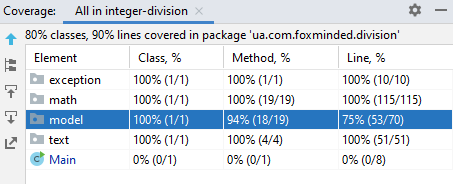
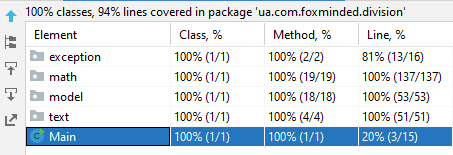
Add test validator. Fix empty filds, new screenshots coverage test.

diff --git a/src/test/java/ua/com/foxminded/division/text/FormatterTest.java b/src/test/java/ua/com/foxminded/division/text/FormatterTest.java
@@ -2,18 +2,14 @@ package ua.com.foxminded.division.text;
 
 import org.junit.jupiter.api.BeforeEach;
 import org.junit.jupiter.api.Test;
-import org.mockito.Mockito;
 import ua.com.foxminded.division.math.Divider;
 import ua.com.foxminded.division.model.Result;
-
-import java.util.ArrayList;
-import java.util.List;
 
 import static org.junit.jupiter.api.Assertions.assertEquals;
 
 class FormatterTest {
+
     private static Divider divider;
-    private static Result resultMock;
     private static Formatter formatter;
 
     @BeforeEach
@@ -24,91 +20,33 @@ class FormatterTest {
 
     @Test
     public void shouldFormatString_WithPositiveNumbersVar1() {
-        resultMock = Mockito.mock(Result.class);
-        final int dividend = 78945;
-        final int divisor = 4;
-        final int quotient = 19736;
-        final int remainder = 1;
-        final int longChar = 5;
-        final List<Integer> subtrahend = new ArrayList<>();
-        final List<Integer> minuend = new ArrayList<>();
-        final List<Integer> numbersTab = new ArrayList<>();
-        final int numbersCycle = 5;
-        final List<Integer> longMinued = new ArrayList<>();
-        final int longLastTab = 5;
-        final List<Integer> numbersTabMinesOne = new ArrayList<>();
-        final int numbersCycleMinesOne = 4;
-        final int tabOneForStringTwo = 4;
-        final int tabTwoForStringTwo = 3;
-        final int tabTwoForStringThree = 4;
-
-        subtrahend.add(4);
-        subtrahend.add(36);
-        subtrahend.add(28);
-        subtrahend.add(12);
-        subtrahend.add(24);
-        minuend.add(7);
-        minuend.add(38);
-        minuend.add(29);
-        minuend.add(14);
-        minuend.add(25);
-        numbersTab.add(1);
-        numbersTab.add(1);
-        numbersTab.add(2);
-        numbersTab.add(3);
-        numbersTab.add(4);
-        longMinued.add(1);
-        longMinued.add(2);
-        longMinued.add(2);
-        longMinued.add(2);
-        longMinued.add(2);
-        numbersTabMinesOne.add(0);
-        numbersTabMinesOne.add(0);
-        numbersTabMinesOne.add(1);
-        numbersTabMinesOne.add(2);
-        numbersTabMinesOne.add(3);
-
-        Mockito.when(resultMock.getDividend()).thenReturn(dividend);
-        Mockito.when(resultMock.getDivisor()).thenReturn(divisor);
-        Mockito.when(resultMock.getQuotient()).thenReturn(quotient);
-        Mockito.when(resultMock.getRemainder()).thenReturn(remainder);
-        Mockito.when(resultMock.getLongChar()).thenReturn(longChar);
-        Mockito.when(resultMock.getSubtrahend()).thenReturn(subtrahend);
-        Mockito.when(resultMock.getMinuend()).thenReturn(minuend);
-        Mockito.when(resultMock.getNumbersTab()).thenReturn(numbersTab);
-        Mockito.when(resultMock.getNumbersCycle()).thenReturn(numbersCycle);
-        Mockito.when(resultMock.getLongMinued()).thenReturn(longMinued);
-        Mockito.when(resultMock.getLongLastTab()).thenReturn(longLastTab);
-        Mockito.when(resultMock.getNumbersTabMinesOne()).thenReturn(numbersTabMinesOne);
-        Mockito.when(resultMock.getTabOneForStringTwo()).thenReturn(tabOneForStringTwo);
-        Mockito.when(resultMock.getTabTwoForStringTwo()).thenReturn(tabTwoForStringTwo);
-        Mockito.when(resultMock.getTabTwoForStringThree()).thenReturn(tabTwoForStringThree);
-        Mockito.when(resultMock.getNumbersСycleMinesOne()).thenReturn(numbersCycleMinesOne);
-
-        String expected = "_78945│4\n" +
-                          " 4    │-----\n" +
-                          " -    │19736\n" +
-                          "_38\n" +
-                          " 36\n" +
-                          " --\n" +
-                          " _29\n" +
-                          "  28\n" +
-                          "  --\n" +
-                          "  _14\n" +
-                          "   12\n" +
-                          "   --\n" +
-                          "   _25\n" +
-                          "    24\n" +
-                          "    --\n" +
-                          "     1\n";
-        assertEquals(expected, formatter.format(resultMock));
+        Result result = divider.divide(78945, 4);
+        String output = formatter.format(result);
+        String expected = """
+                _78945│4
+                 4    │-----
+                 -    │19736
+                _38
+                 36
+                 --
+                 _29
+                  28
+                  --
+                  _14
+                   12
+                   --
+                   _25
+                    24
+                    --
+                     1
+                """;
+        assertEquals(expected, output);
     }
 
     @Test
     public void shouldFormatString_WithPositiveNumbersVar2() {
         Result result = divider.divide(630440, 610);
         String output = formatter.format(result);
-
         String expected = """
                 _630440│610
                  610   │----

diff --git a/src/main/java/ua/com/foxminded/division/exception/Validator.java b/src/main/java/ua/com/foxminded/division/exception/Validator.java
@@ -2,17 +2,43 @@ package ua.com.foxminded.division.exception;
 
 import java.util.Objects;
 
+/**
+ * Date: Feb 01-2021 Checks input numbers
+ * if validation fails prints a message
+ *
+ * @author Aleksandr Serogin
+ * @version 1.0001
+ */
+
 public class Validator {
+
+    /**
+     * @param dividend number for check
+     * @param divisor  number for check
+     */
     public void validateArguments(Integer dividend, Integer divisor) {
-        Objects.requireNonNull(divisor, "Divisor cannot be null"); // check on null
-        Objects.requireNonNull(dividend, "Dividend cannot be null"); // check on null
-        dividend = Math.abs(dividend);
-        divisor = Math.abs(divisor);
+        Objects.requireNonNull (divisor, "Divisor cannot be null"); // check on null
+        Objects.requireNonNull (dividend, "Dividend cannot be null"); // check on null
+        dividend = Math.abs (dividend);
+        divisor = Math.abs (divisor);
         if (divisor == 0) {
-            throw new IllegalArgumentException("Divider is zero. Can't division by zero");
+            throw new IllegalArgumentException ("Divider is zero. Can't division by zero");
         }
         if (dividend < divisor) {
-            throw new IllegalArgumentException("Divisor cannot be greater than dividend.");
+            throw new IllegalArgumentException ("Divisor cannot be greater than dividend.");
+        }
+    }
+
+    /**
+     * @param arg  string for check
+     * @param arg1 string for check
+     */
+    public void argumentLargeExceptions(String arg, String arg1) { //checking can wi put string in int
+        try {
+            Integer dividend = Integer.valueOf (arg);
+            Integer divisor = Integer.valueOf (arg1);
+        } catch (RuntimeException e) {
+            throw new RuntimeException ("You can to enter max ten digits in one value.");
         }
     }
 }

diff --git a/src/main/java/ua/com/foxminded/division/model/Result.java b/src/main/java/ua/com/foxminded/division/model/Result.java
@@ -2,15 +2,14 @@ package ua.com.foxminded.division.model;
 
 import java.util.List;
 /**
- * Date: Feb 01-2021 Class make integer division without
- * fractional string part
+ * Date: Feb 01-2021 Class stores the calculated numbers
  *
  * @author Aleksandr Serogin
  * @version 1.0001
  */
 
 /**
- * saving incoming values
+ * saving incoming values and return them
  */
 public class Result {
 
@@ -153,26 +152,5 @@ public class Result {
         if (numbersTab != null ? !numbersTab.equals(result.numbersTab) : result.numbersTab != null) return false;
         if (longMinued != null ? !longMinued.equals(result.longMinued) : result.longMinued != null) return false;
         return numbersTabsMinesOne != null ? numbersTabsMinesOne.equals(result.numbersTabsMinesOne) : result.numbersTabsMinesOne == null;
-    }
-
-    @Override
-    public int hashCode() {
-        int result = dividend;
-        result = 31 * result + divisor;
-        result = 31 * result + quotient;
-        result = 31 * result + remainder;
-        result = 31 * result + longChar;
-        result = 31 * result + (subtrahend != null ? subtrahend.hashCode() : 0);
-        result = 31 * result + (minuend != null ? minuend.hashCode() : 0);
-        result = 31 * result + (numbersTab != null ? numbersTab.hashCode() : 0);
-        result = 31 * result + numbersCycle;
-        result = 31 * result + (longMinued != null ? longMinued.hashCode() : 0);
-        result = 31 * result + longLastTab;
-        result = 31 * result + (numbersTabsMinesOne != null ? numbersTabsMinesOne.hashCode() : 0);
-        result = 31 * result + numbersСycleMinesOne;
-        result = 31 * result + tabOneForStringTwo;
-        result = 31 * result + tabTwoForStringTwo;
-        result = 31 * result + tabTwoForStringThree;
-        return result;
     }
 }

diff --git a/src/main/java/ua/com/foxminded/division/Main.java b/src/main/java/ua/com/foxminded/division/Main.java
@@ -1,5 +1,6 @@
 package ua.com.foxminded.division;
 
+import ua.com.foxminded.division.exception.Validator;
 import ua.com.foxminded.division.math.Divider;
 import ua.com.foxminded.division.model.Result;
 import ua.com.foxminded.division.text.Formatter;
@@ -19,22 +20,20 @@ public class Main {
      *
      * @param args array of string arguments.
      */
-
     public static void main(String[] args) {
         if (args.length != 2) {
-            System.out.printf("You need to enter two values. Example: java Main 78945 4");
-            System.exit(1);
+            System.out.printf ("You need to enter two values. Example: java Main 78945 4");
+            System.exit (1);
         }
-        try {
-            Integer dividend = Integer.valueOf(args[0]);
-            Integer divisor = Integer.valueOf(args[1]);
-            Divider divider = new Divider();
-            Result result = divider.divide(dividend, divisor);
-            Formatter formatter = new Formatter();
-            String output = formatter.format(result);
-            System.out.printf(output);
-        } catch (NumberFormatException e) {
-            System.out.printf("You can to enter max ten digits in one value.");
-        }
+        Validator validator = new Validator ();
+        validator.argumentLargeExceptions (args[0], args[1]);
+        Integer dividend = Integer.valueOf (args[0]);
+        Integer divisor = Integer.valueOf (args[1]);
+        Divider divider = new Divider ();
+        Result result = divider.divide (dividend, divisor);
+        Formatter formatter = new Formatter ();
+        String output = formatter.format (result);
+        System.out.printf (output);
+
     }
 }

diff --git a/src/test/java/ua/com/foxminded/division/exception/ExceptionTest.java b/src/test/java/ua/com/foxminded/division/exception/ExceptionTest.java
@@ -2,6 +2,7 @@ package ua.com.foxminded.division.exception;
 
 import org.junit.jupiter.api.BeforeEach;
 import org.junit.jupiter.api.Test;
+import ua.com.foxminded.division.Main;
 import ua.com.foxminded.division.math.Divider;
 
 import static org.junit.jupiter.api.Assertions.assertEquals;
@@ -45,5 +46,17 @@ public class ExceptionTest {
                 IllegalArgumentException.class,
                 () -> divider.divide(12, 122));
         assertEquals("Divisor cannot be greater than dividend.", thrown.getMessage());
+    }
+
+    @Test
+    public void When_NumberLargeTen_Expect_ExceptionWithSuperType() {
+        String[] nembers = new String[2];
+        nembers[0] =("123465789102");
+        nembers[1] =("1");
+
+        RuntimeException thrown = assertThrows(
+                RuntimeException.class,
+                () -> Main.main(nembers));
+        assertEquals("You can to enter max ten digits in one value.", thrown.getMessage());
     }
 }

diff --git a/src/main/java/ua/com/foxminded/division/math/Divider.java b/src/main/java/ua/com/foxminded/division/math/Divider.java
@@ -17,8 +17,6 @@ import java.util.stream.IntStream;
 
 public class Divider {
 
-    private ArrayList<Integer> numbersTab;
-
     /**
      * @param dividend
      * @param divisor
@@ -164,16 +162,13 @@ public class Divider {
                     if (y == 0) {
                         tab = (i + 2) - numberDigit(minuend.get(y)).size();
                         tabs.add(tab);
-
                     } else {
                         tab = (i + 3) - numberDigit(minuend.get(y)).size();
                         tabs.add(tab);
-
                     }
                 } else {
                     tab = (i + 2) - numberDigit(minuend.get(y)).size();
                     tabs.add(tab);
-
                 }
                 partiallyConstructedQuotient.replace(0, partiallyConstructedQuotient.length(),
                         Integer.toString(partiallyConstructedRemainder));

diff --git a/src/main/java/ua/com/foxminded/division/text/Formatter.java b/src/main/java/ua/com/foxminded/division/text/Formatter.java
@@ -4,8 +4,7 @@ import ua.com.foxminded.division.model.Result;
 
 import java.util.List;
 /**
- * Date: Feb 01-2021 Class make integer division without
- * fractional string part
+ * Date: Feb 01-2021 Class make format string
  *
  * @author Aleksandr Serogin
  * @version 1.0001
@@ -86,9 +85,7 @@ public class Formatter {
                 break;
             }
         }
-
         finalString.insert(index[2], assemblyString(tabTwoForStringThree, ' ') + "│" + quotient.toString());
-
         finalString.insert(index[1], assemblyString(tabOneForStringTwo, ' ') + "│" + assemblyString(longChar, '-'));
         if (dividend < 0) {
             finalString.insert(tabTwoForStringTwo, assemblyString(2, ' '));
